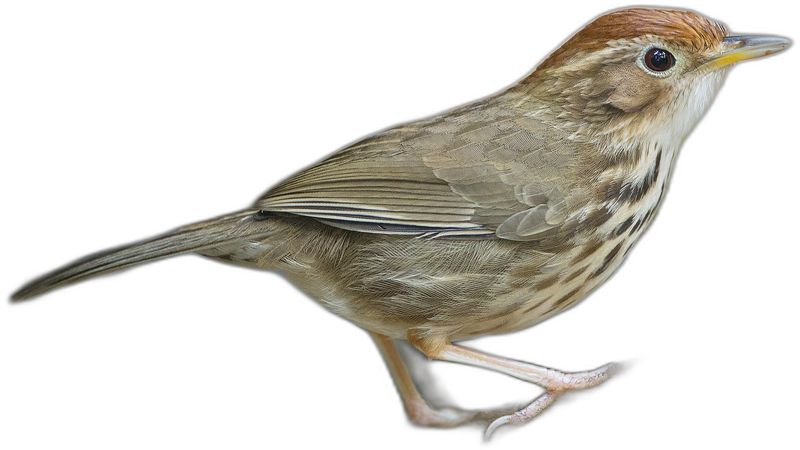
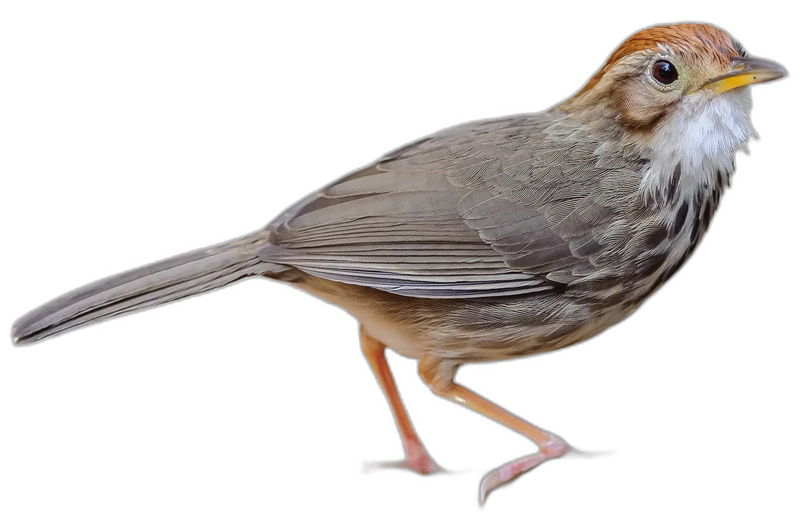
Update bird cutouts via species-sync tool

diff --git a/avian/frontend/apt.js b/avian/frontend/apt.js
@@ -12,7 +12,7 @@
   // which moves the number and cannot know what the number now means - so
   // any such note is stale from the next upload onwards. git log is the
   // changelog.
-  var SKETCH_VERSION = 'r42';
+  var SKETCH_VERSION = 'r43';
   // Cache-bust for /api/img - bump whenever a bird gets re-rendered via
   // /api/regen or whenever you need every CF DC to drop its cached copy.
   // Cloudflare keys on the full URL incl. query, so bumping this is
@@ -21,7 +21,7 @@
   // versioned URL is the only reliable way to invalidate everywhere.)
   // Kept in step with SKETCH_VERSION by the same bump, and carrying the same
   // rule: no per-revision annotation here, it goes stale mechanically.
-  var IMG_VERSION = 'r42';
+  var IMG_VERSION = 'r43';
 
   // ---- Sliding pill helper ----
   // Each segmented control has a single .seg-pill element that we move via

diff --git a/avian/frontend/index.html b/avian/frontend/index.html
@@ -397,7 +397,7 @@ var p=preference();d.setAttribute('data-theme',p==='light'||p==='dark'?p:systemT
   <script defer src="./stamp-batch-b.js?v=r319"></script>
 <script defer src="./stamp-batch-c.js?v=r235"></script>
   <script defer src="./stamp-batch-local.js?v=r1"></script>
-<script defer src="./apt.js?v=r188"></script>
+<script defer src="./apt.js?v=r189"></script>
   <!-- Fork-owned: browser-side PNG export of the open postcard's issue.
        Loads after apt.js; it only reads window.STAMPS and the live DOM. -->
   <script defer src="./stamp-export.js?v=r8"></script>
